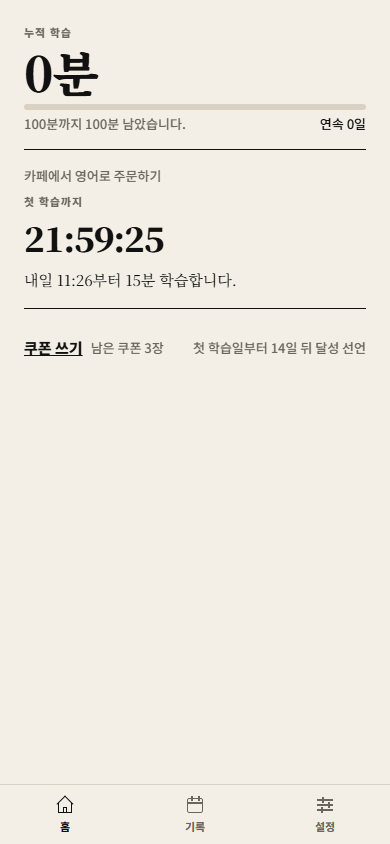
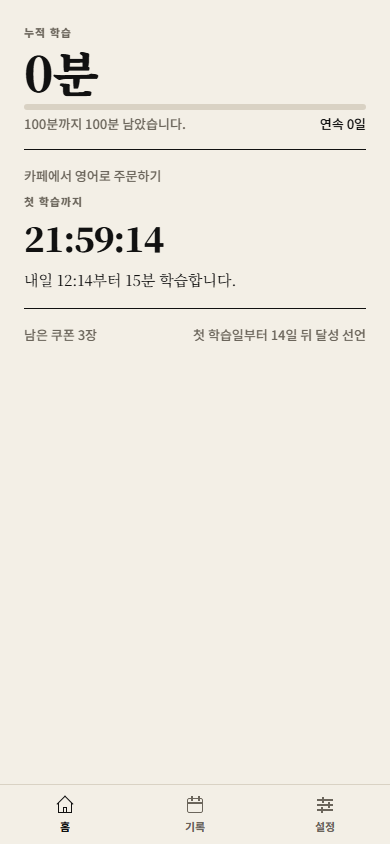
fix: 쿠폰 쓰기 버튼을 쓸 수 있는 상태에만 보이고, 시작 시각과 분 스테퍼를 나눠 표시

diff --git a/src/app/(tabs)/index.tsx b/src/app/(tabs)/index.tsx
@@ -24,6 +24,7 @@ import {
   settingsFor,
   streakOf,
   totalMinutes,
+  type HomeState,
 } from '@/lib/rules';
 import { LEARN_PATH, RETRO_PATH } from '@/lib/route';
 import { useRuntime } from '@/lib/runtime';
@@ -91,6 +92,8 @@ function useFlash(on: boolean, key: string) {
   }, [on, key, opacity]);
   return opacity;
 }
+
+const COUPON_USABLE = new Set<HomeState>(['waiting', 'soon', 'grace', 'nag', 'resume']);
 
 export default function Home() {
   const now = useNow();
@@ -309,8 +312,11 @@ export default function Home() {
         {st === 'giveup' ? null : (
           <View style={{ flexDirection: 'row', justifyContent: 'space-between', alignItems: 'center', gap: S.sm }}>
             <View style={{ flexDirection: 'row', alignItems: 'center', gap: S.sm }}>
-              <TextButton title={h.couponOpen} onPress={() => router.push('/coupon')} style={{ alignSelf: 'flex-start', paddingHorizontal: 0 }} />
-              <Text style={[T.small, { color: sub }]}>{h.couponsLeft(goal.coupons)}</Text>
+              {/* 쿠폰은 오늘 학습할 날이고 아직 끝나지 않았을 때만 쓸 수 있다. 쿠폰 쓴 날은 가운데에 이미 남은 수가 보인다 */}
+              {COUPON_USABLE.has(st) ? (
+                <TextButton title={h.couponOpen} onPress={() => router.push('/coupon')} style={{ alignSelf: 'flex-start', paddingHorizontal: 0 }} />
+              ) : null}
+              {st === 'coupon' ? null : <Text style={[T.small, { color: sub }]}>{h.couponsLeft(goal.coupons)}</Text>}
             </View>
             {canAchieve(goal, today) ? (
               <TextButton title={h.achieve} onPress={() => router.push('/goal/achieve')} style={{ alignSelf: 'flex-end', paddingHorizontal: 0 }} />

diff --git a/src/app/settings/goal.tsx b/src/app/settings/goal.tsx
@@ -109,13 +109,13 @@ export default function GoalSettings() {
       <View style={{ gap: S.sm }}>
         <Stepper
           label={t.hourLabel}
-          display={fmtClock(v.startMinutes)}
+          display={fmtClock(v.startMinutes).slice(0, 2)}
           onMinus={() => edit({ startMinutes: wrapDay(v.startMinutes - 60) })}
           onPlus={() => edit({ startMinutes: wrapDay(v.startMinutes + 60) })}
         />
         <Stepper
           label={t.minuteLabel}
-          display={fmtClock(v.startMinutes)}
+          display={fmtClock(v.startMinutes).slice(3)}
           onMinus={() => edit({ startMinutes: wrapDay(v.startMinutes - 1) })}
           onPlus={() => edit({ startMinutes: wrapDay(v.startMinutes + 1) })}
         />
